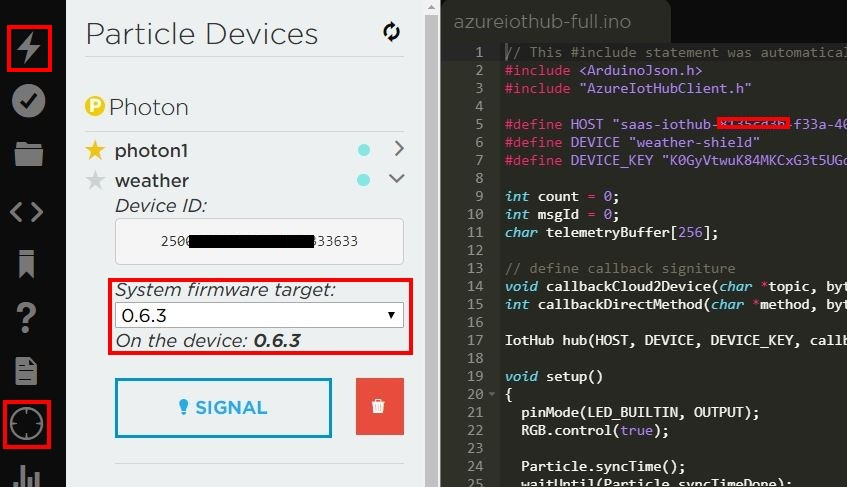
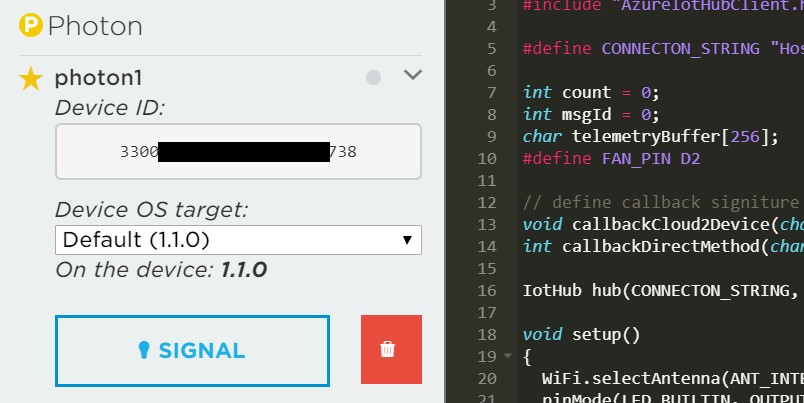
doco fw 1.10

diff --git a/README.md b/README.md
@@ -6,7 +6,7 @@
 |Platform|[Particle Photon](https://store.particle.io/collections/photon), [Azure IoT Central](https://docs.microsoft.com/en-us/azure/iot-central/?WT.mc_id=article-github-dglover), [Azure IoT Hub](https://docs.microsoft.com/en-au/azure/iot-hub/?WT.mc_id=article-github-dglover)|
 |Video Training|[What is Azure IoT Central](https://docs.microsoft.com/en-us/azure/iot-central/overview-iot-central/?WT.mc_id=article-github-dglover), [Introduction to Azure IoT Hub](https://www.youtube.com/watch?v=smuZaZZXKsU)|
 |Screencasts|[How to create the Azure IoT Central Application](https://youtu.be/D26rJmHyZcA), [How to create an Azure IoT Hub](https://youtu.be/lHpUu6wSX40)|
-|Date|As at Nov 2018|
+|Date|As at June 2019|
 |Acknowledgment|This AzureIoTHubClient library depends and builds upon the fantastic [MQTT-TLS](https://github.com/hirotakaster/MQTT-TLS) library.|
 
 Now you can connect your Particle Photon directly to the Particle Cloud, Azure IoT Hub, and Azure IoT Central. The **AzureIoTHubClient** library supports two-way messaging, [Direct Methods](https://docs.microsoft.com/en-us/azure/iot-hub/iot-hub-devguide-direct-methods/?WT.mc_id=article-github-dglover), and soon [Device Twins](https://docs.microsoft.com/en-us/azure/iot-hub/iot-hub-devguide-device-twins/?WT.mc_id=article-github-dglover).
@@ -108,11 +108,11 @@ Here are some reasons to connect your Particle Photon directly to Azure.
 
 ### Flash your Particle Photon project
 
-1. Set your Particle Photon Firmware to 6.3
+1. Set your Particle Photon Firmware to 1.10
 
-    Set the device target firmware to 6.3. Your mileage may vary. I found firmware 6.3 to be more reliable than 7.0. WiFi recovery worked, 802.11n worked, and it uses less memory. See [Updating Particle Photon Firmware to 6.3](#updating-particle-photon-firmware-to-63).
+    See [HOW DO I UPGRADE MY FIRMWARE?](https://docs.particle.io/support/troubleshooting/firmware-upgrades/photon/)
 
-      ![Target firmware 6.3](docs/particle-device-firmware-target.jpg)
+    ![Target firmware 6.3](docs/particle-device-firmware-target.jpg)
 
 2. Flash your Particle Photon with Azure IoT Hub Client app your device from the Particle IDE.
 
@@ -234,22 +234,3 @@ IotHub hub(CONNECTION_STRING, NULL, NULL, maxBufferSize, sasExpiryPeriodInSecond
       [![screencast](docs/create-azure-iot-hub-youtube.jpg)](https://www.youtube.com/watch?v=lHpUu6wSX40)
 
 3. For more information see [Create an Azure IoT Hub (free tier) using the Azure portal](https://docs.microsoft.com/en-us/azure/iot-hub/iot-hub-create-through-portal/?WT.mc_id=article-github-dglover)
-
-## Updating Particle Photon Firmware to 6.3
-
-1. Download [v0.6.3 Firmware Release (Photon/P1)](https://github.com/particle-iot/firmware/releases/tag/v0.6.3)
-
-2. Install [Particle CLI](https://docs.particle.io/tutorials/developer-tools/cli/) tools
-
-3. Updating your Particle Photon over the Air (OTA) is the easiest choice if your device is already connected to the Particle Cloud. For more information see [Upgrading and downgrading Particle Device OS](https://community.particle.io/t/upgrading-and-downgrading-particle-device-os/43660).
-
-4. If **upgrading** to firmware 6.3
-    ```bash
-    particle flash <your device id> system-part1-0.6.3-photon.bin
-    particle flash <your device id> system-part2-0.6.3-photon.bin
-    ```
-5. If **downgrading** to firmware 6.3 (reverse order)
-    ```bash
-    particle flash <your device id> system-part2-0.6.3-photon.bin
-    particle flash <your device id> system-part1-0.6.3-photon.bin
-    ```
